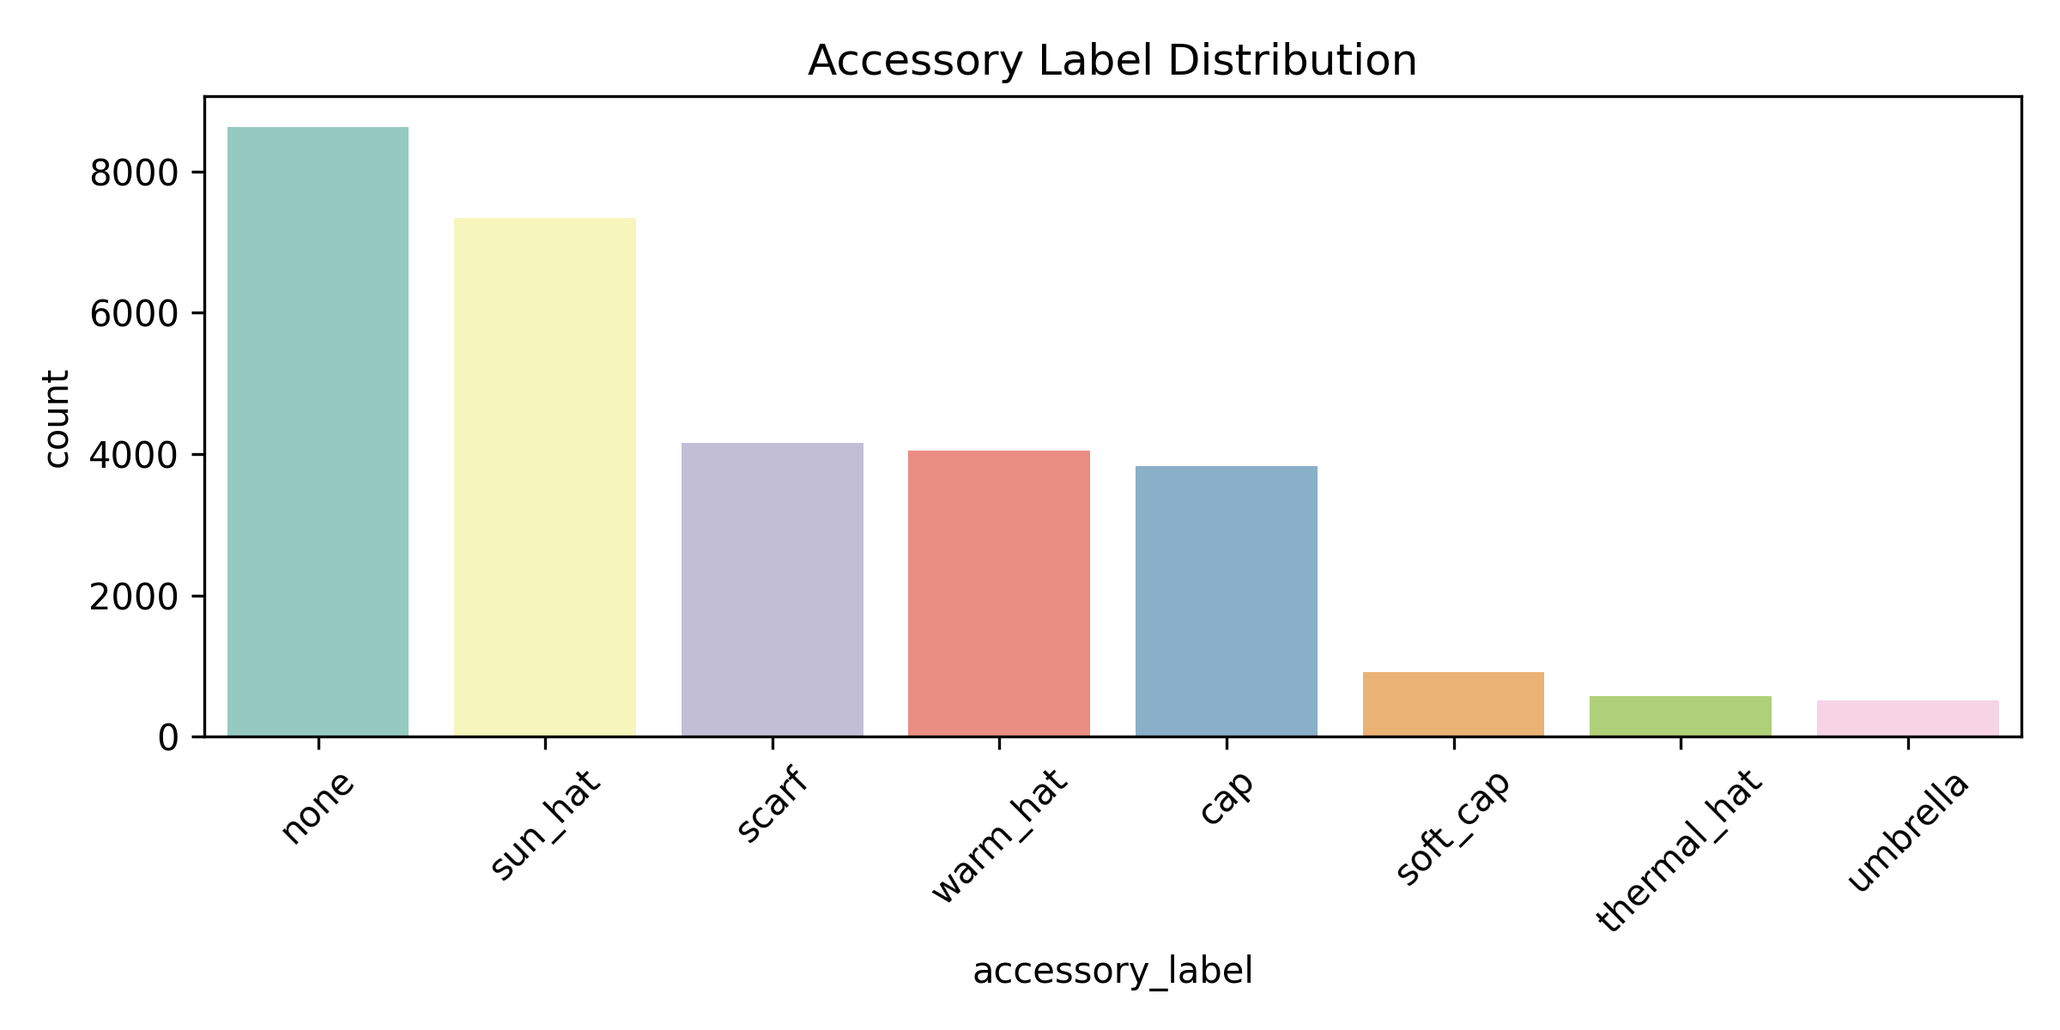
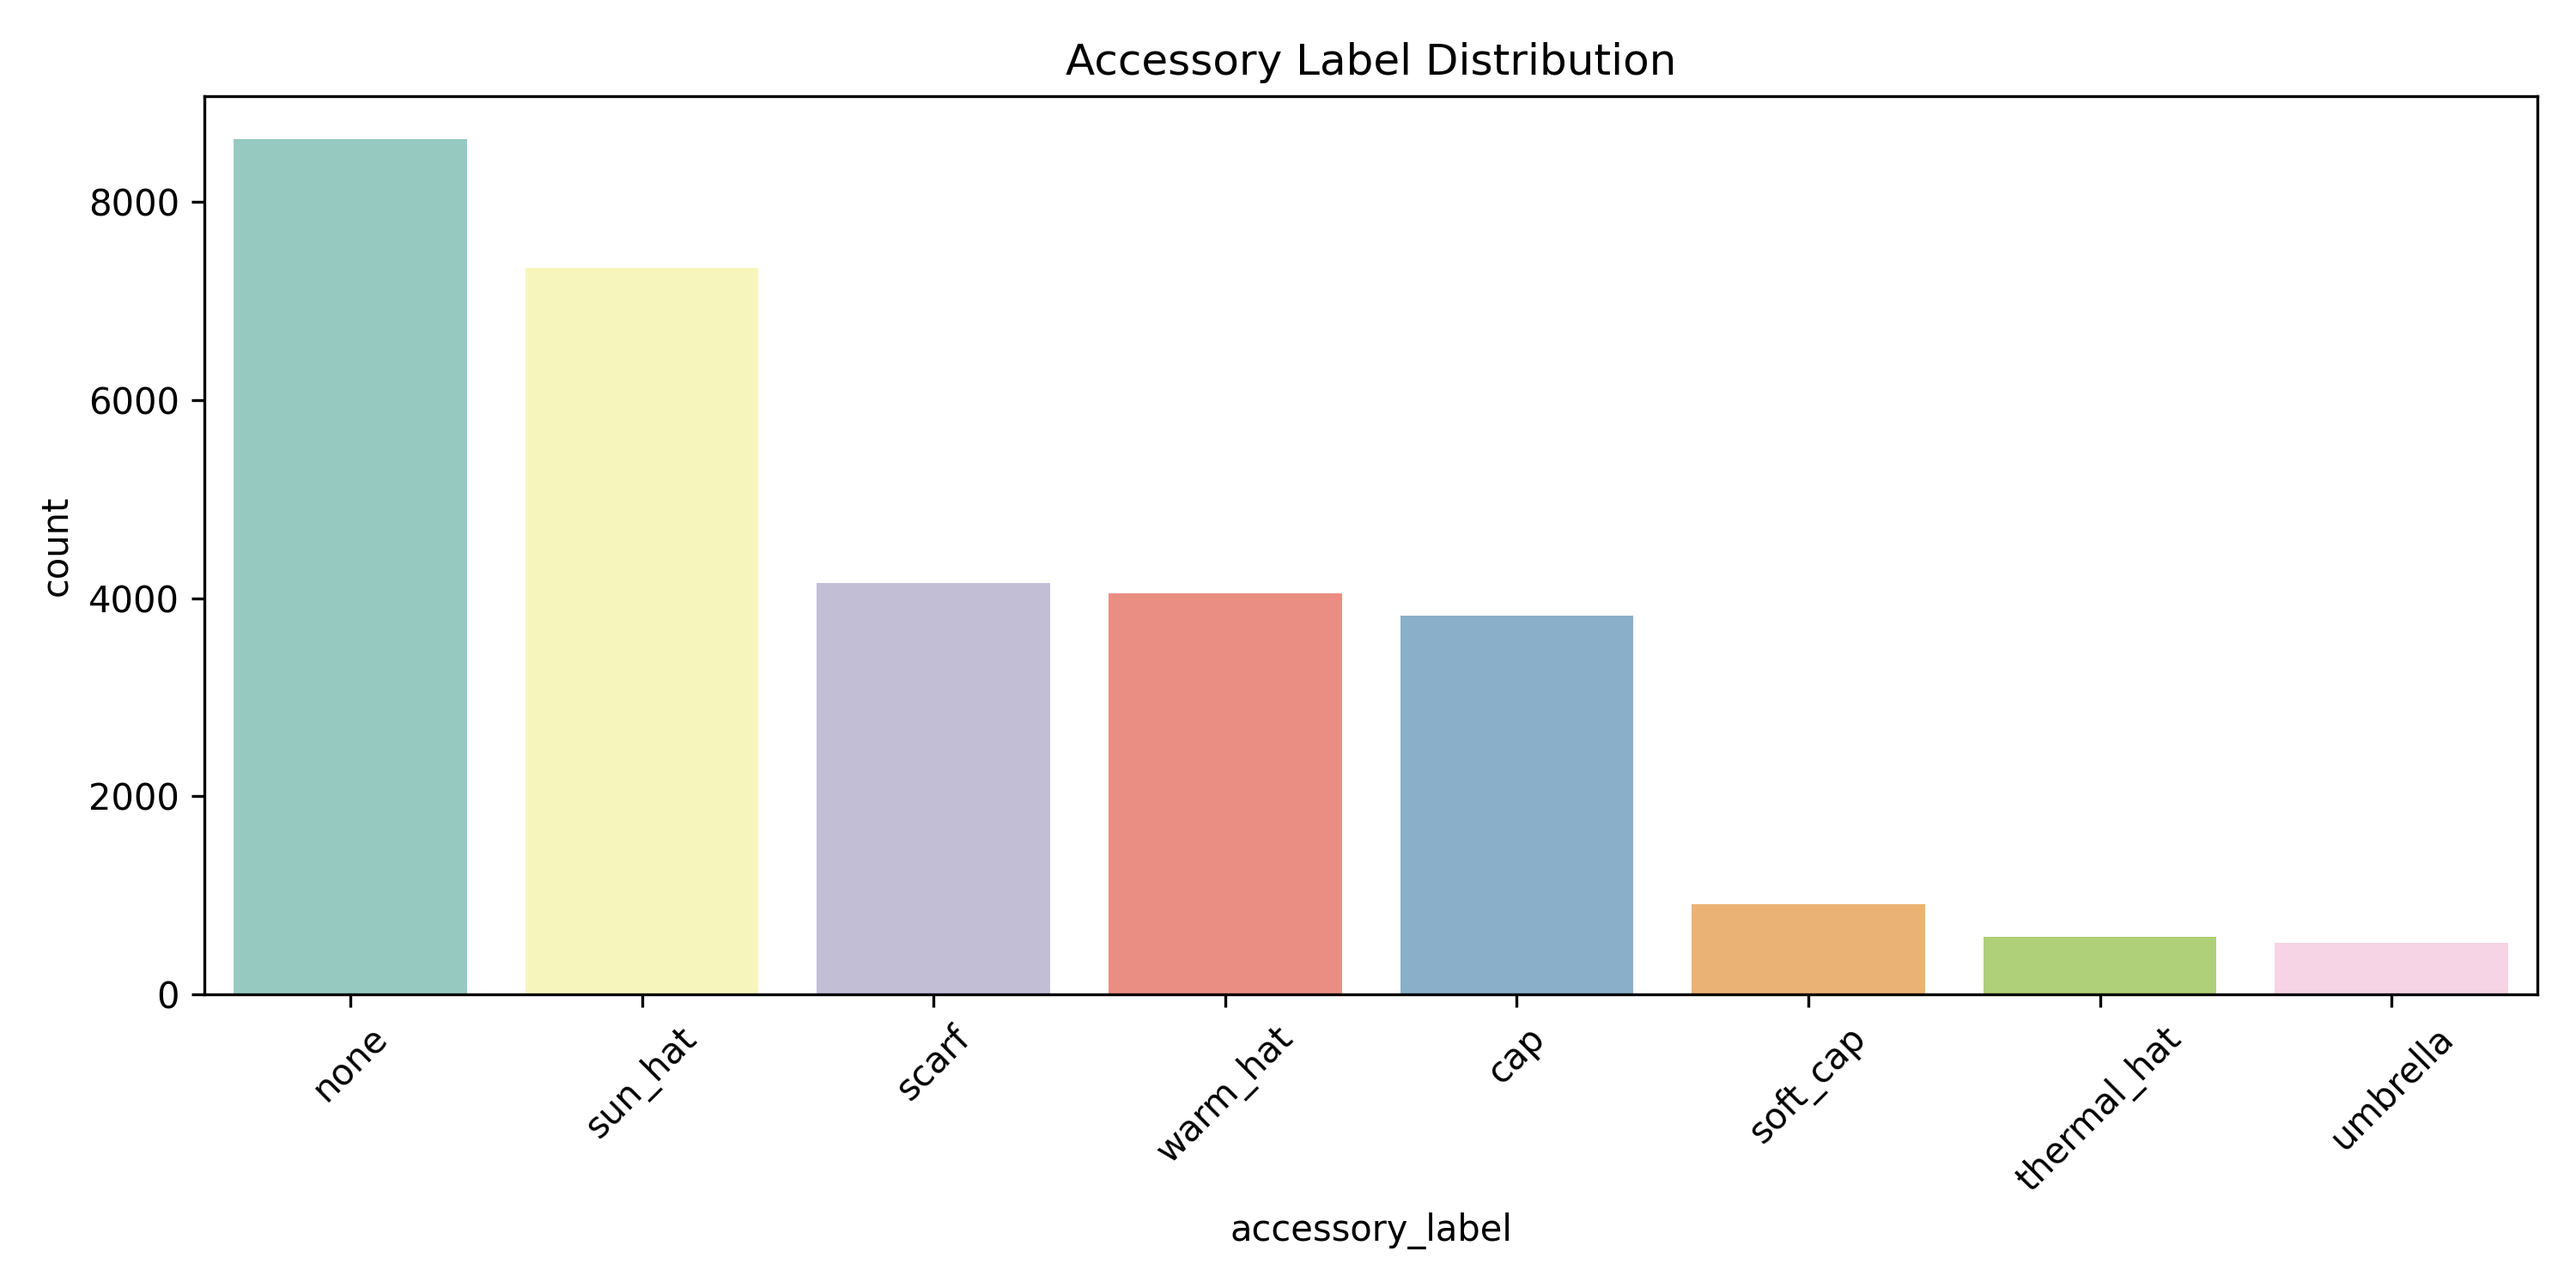
updated images

Changed region(s): [[0.0, 0.0308, 1.0, 0.925], [0.4688, 0.925, 0.625, 0.9867], [0.2188, 0.8325, 0.25, 0.8942]]

diff --git a/backend/generate_figures.py b/backend/generate_figures.py
@@ -1,3 +1,188 @@
+# import os
+# import pandas as pd
+# import numpy as np
+# import joblib
+# import matplotlib.pyplot as plt
+# import seaborn as sns
+# from sklearn.metrics import accuracy_score, classification_report, confusion_matrix
+# import requests
+# import time
+
+# # ---------------- CONFIG ----------------
+# CSV_PATH = "data/synthetic_30k.csv"
+# MODEL_DIR = "models"
+# OUTPUT_DIR = "figures"
+# FEAT_COLS = [
+#     "temperature",
+#     "humidity",
+#     "wind_speed",
+#     "rain",
+#     "gender",
+#     "hour",
+#     "day_of_week",
+#     "season",
+#     "weather_condition",
+# ]
+# TARGETS = ["top", "bottom", "footwear", "accessory"]
+# API_TEST_URL = "http://localhost:8000/outfit/London?gender=male&unit=C"
+
+# os.makedirs(OUTPUT_DIR, exist_ok=True)
+
+# # ---------------- LOAD DATA ----------------
+# df = pd.read_csv(CSV_PATH)
+
+# # Load global encoders and preprocessor (preprocessor included in pipeline, optional)
+# label_encoders = joblib.load(os.path.join(MODEL_DIR, "global_label_encoders.pkl"))
+
+# # Load individual models (pipelines include preprocessor)
+# models = {
+#     t: joblib.load(os.path.join(MODEL_DIR, f"{t}_label_model.pkl")) for t in TARGETS
+# }
+
+# # ---------------- 1. Accuracy Table ----------------
+# acc_list = []
+# for tgt in TARGETS:
+#     le = label_encoders[f"{tgt}_label"]
+#     model = models[tgt]
+#     X = df[FEAT_COLS]  # raw features only
+#     y_true = le.transform(df[f"{tgt}_label"])
+#     y_pred = model.predict(X)  # pipeline applies preprocessing internally
+#     acc_list.append(
+#         {"Garment": tgt.title(), "Accuracy": round(accuracy_score(y_true, y_pred), 3)}
+#     )
+
+# acc_df = pd.DataFrame(acc_list)
+# acc_df.to_csv(os.path.join(OUTPUT_DIR, "accuracy_table.csv"), index=False)
+# print("✔ Accuracy table saved")
+
+# # ---------------- 2. Confusion Matrices ----------------
+# for tgt in TARGETS:
+#     le = label_encoders[f"{tgt}_label"]
+#     model = models[tgt]
+#     X = df[FEAT_COLS]
+#     y_true = le.transform(df[f"{tgt}_label"])
+#     y_pred = model.predict(X)
+#     cm = confusion_matrix(y_true, y_pred)
+
+#     plt.figure(figsize=(7, 6))
+#     sns.heatmap(
+#         cm,
+#         annot=True,
+#         fmt="d",
+#         cmap="Blues",
+#         xticklabels=le.classes_,
+#         yticklabels=le.classes_,
+#     )
+#     plt.title(f"{tgt.title()} Confusion Matrix")
+#     plt.xlabel("Predicted")
+#     plt.ylabel("Actual")
+#     plt.tight_layout()
+#     plt.savefig(os.path.join(OUTPUT_DIR, f"cm_{tgt}.png"), dpi=300)
+#     plt.close()
+# print("✔ Confusion matrices saved")
+
+# # ---------------- 3. Precision / Recall / F1 Bar Chart ----------------
+# metrics_list = []
+# for tgt in TARGETS:
+#     le = label_encoders[f"{tgt}_label"]
+#     model = models[tgt]
+#     X = df[FEAT_COLS]
+#     y_true = le.transform(df[f"{tgt}_label"])
+#     y_pred = model.predict(X)
+#     report = classification_report(y_true, y_pred, output_dict=True)
+#     metrics_list.append(pd.DataFrame(report).transpose().assign(Garment=tgt.title()))
+
+# metrics_df = pd.concat(metrics_list)
+# pivot = metrics_df.groupby("Garment")[["precision", "recall", "f1-score"]].mean()
+# pivot.plot(kind="bar", figsize=(10, 5))
+# plt.title("Average Precision / Recall / F1 per Garment Type")
+# plt.ylabel("Score")
+# plt.ylim(0, 1)
+# plt.tight_layout()
+# plt.savefig(os.path.join(OUTPUT_DIR, "prf1_bar.png"), dpi=300)
+# plt.close()
+# print("✔ PRF1 bar chart saved")
+
+# # ---------------- 4. Dataset Feature Distribution ----------------
+# # Weather condition distribution
+# plt.figure(figsize=(6, 4))
+# sns.countplot(x="weather_condition", data=df, palette="pastel", dodge=False)
+# plt.title("Weather Condition Distribution")
+# plt.tight_layout()
+# plt.savefig(os.path.join(OUTPUT_DIR, "weather_condition_dist.png"), dpi=300)
+# plt.close()
+
+# # Rain distribution
+# plt.figure(figsize=(6, 4))
+# sns.countplot(x="rain", data=df, palette="cool", dodge=False)
+# plt.title("Rain Occurrence Distribution")
+# plt.tight_layout()
+# plt.savefig(os.path.join(OUTPUT_DIR, "rain_dist.png"), dpi=300)
+# plt.close()
+
+# # Gender distribution
+# plt.figure(figsize=(6, 4))
+# sns.countplot(x="gender", data=df, palette="Set2", dodge=False)
+# plt.title("Gender Distribution")
+# plt.tight_layout()
+# plt.savefig(os.path.join(OUTPUT_DIR, "gender_dist.png"), dpi=300)
+# plt.close()
+
+# # Day of week distribution
+# plt.figure(figsize=(7, 4))
+# sns.countplot(
+#     x="day_of_week",
+#     data=df,
+#     palette="muted",
+#     order=["Mon", "Tue", "Wed", "Thu", "Fri", "Sat", "Sun"],
+#     dodge=False,
+# )
+# plt.title("Day of Week Distribution")
+# plt.tight_layout()
+# plt.savefig(os.path.join(OUTPUT_DIR, "day_of_week_dist.png"), dpi=300)
+# plt.close()
+
+# # Garment label distributions
+# for tgt in TARGETS:
+#     plt.figure(figsize=(8, 4))
+#     sns.countplot(
+#         x=f"{tgt}_label",
+#         data=df,
+#         order=df[f"{tgt}_label"].value_counts().index,
+#         palette="Set3",
+#         dodge=False,
+#     )
+#     plt.title(f"{tgt.title()} Label Distribution")
+#     plt.xticks(rotation=45)
+#     plt.tight_layout()
+#     plt.savefig(os.path.join(OUTPUT_DIR, f"{tgt}_label_dist.png"), dpi=300)
+#     plt.close()
+# print("✔ Dataset distribution plots saved")
+
+# # ---------------- 5. API Latency Histogram ----------------
+# latencies = []
+# for _ in range(50):
+#     start = time.perf_counter()
+#     try:
+#         requests.get(API_TEST_URL)
+#     except Exception as e:
+#         print("⚠ API call failed:", e)
+#     end = time.perf_counter()
+#     latencies.append(end - start)
+
+# lat_series = pd.Series(latencies, name="Seconds")
+# lat_series.plot(kind="hist", bins=12, color="skyblue", edgecolor="black")
+# plt.title("API Response Time (50 calls)")
+# plt.xlabel("Seconds")
+# plt.ylabel("Frequency")
+# plt.tight_layout()
+# plt.savefig(os.path.join(OUTPUT_DIR, "latency_hist.png"), dpi=300)
+# plt.close()
+# print("✔ API latency histogram saved")
+
+# print(f"All figures saved in {OUTPUT_DIR}")
+
+# generate_figures.py
 import os
 import pandas as pd
 import numpy as np
@@ -12,57 +197,59 @@ import time
 CSV_PATH = "data/synthetic_30k.csv"
 MODEL_DIR = "models"
 OUTPUT_DIR = "figures"
-FEAT_COLS = [
-    "temperature",
-    "humidity",
-    "wind_speed",
-    "rain",
-    "gender",
-    "hour",
-    "day_of_week",
-    "season",
-    "weather_condition",
-]
-TARGETS = ["top", "bottom", "footwear", "accessory"]
 API_TEST_URL = "http://localhost:8000/outfit/London?gender=male&unit=C"
 
+TARGETS = ["top", "bottom", "footwear", "accessory"]
 os.makedirs(OUTPUT_DIR, exist_ok=True)
 
-# ---------------- LOAD DATA ----------------
+# ---------------- LOAD DATA & MODELS ----------------
 df = pd.read_csv(CSV_PATH)
 
-# Load global encoders and preprocessor (preprocessor included in pipeline, optional)
+# Load label encoders and individual models
 label_encoders = joblib.load(os.path.join(MODEL_DIR, "global_label_encoders.pkl"))
-
-# Load individual models (pipelines include preprocessor)
 models = {
     t: joblib.load(os.path.join(MODEL_DIR, f"{t}_label_model.pkl")) for t in TARGETS
 }
 
-# ---------------- 1. Accuracy Table ----------------
+# Get raw feature columns used in preprocessor
+preprocessor = joblib.load(os.path.join(MODEL_DIR, "preprocessor.pkl"))
+FEATURE_COLS = preprocessor.feature_names_in_
+
+# ---------------- 1. ACCURACY TABLE & BAR CHART ----------------
 acc_list = []
 for tgt in TARGETS:
-    le = label_encoders[f"{tgt}_label"]
+    le = label_encoders[tgt + "_label"]
     model = models[tgt]
-    X = df[FEAT_COLS]  # raw features only
-    y_true = le.transform(df[f"{tgt}_label"])
-    y_pred = model.predict(X)  # pipeline applies preprocessing internally
-    acc_list.append(
-        {"Garment": tgt.title(), "Accuracy": round(accuracy_score(y_true, y_pred), 3)}
-    )
+    X = df[FEATURE_COLS]  # raw features
+    y_true = df[tgt + "_label"]
+    y_true_encoded = le.transform(y_true)
+    y_pred_encoded = model.predict(X)
+    acc = accuracy_score(y_true_encoded, y_pred_encoded)
+    acc_list.append({"Garment": tgt.title(), "Accuracy": acc})
 
 acc_df = pd.DataFrame(acc_list)
 acc_df.to_csv(os.path.join(OUTPUT_DIR, "accuracy_table.csv"), index=False)
 print("✔ Accuracy table saved")
 
-# ---------------- 2. Confusion Matrices ----------------
+# Plot accuracy bar chart
+plt.figure(figsize=(8, 5))
+sns.barplot(x="Garment", y="Accuracy", data=acc_df, palette="pastel")
+plt.ylim(0, 1)
+plt.title("Model Accuracy per Garment")
+plt.ylabel("Accuracy")
+plt.tight_layout()
+plt.savefig(os.path.join(OUTPUT_DIR, "accuracy_bar.png"), dpi=300)
+plt.close()
+print("✔ Accuracy bar chart saved")
+
+# ---------------- 2. CONFUSION MATRICES ----------------
 for tgt in TARGETS:
-    le = label_encoders[f"{tgt}_label"]
+    le = label_encoders[tgt + "_label"]
     model = models[tgt]
-    X = df[FEAT_COLS]
-    y_true = le.transform(df[f"{tgt}_label"])
-    y_pred = model.predict(X)
-    cm = confusion_matrix(y_true, y_pred)
+    X = df[FEATURE_COLS]
+    y_true_encoded = le.transform(df[tgt + "_label"])
+    y_pred_encoded = model.predict(X)
+    cm = confusion_matrix(y_true_encoded, y_pred_encoded)
 
     plt.figure(figsize=(7, 6))
     sns.heatmap(
@@ -81,15 +268,15 @@ for tgt in TARGETS:
     plt.close()
 print("✔ Confusion matrices saved")
 
-# ---------------- 3. Precision / Recall / F1 Bar Chart ----------------
+# ---------------- 3. PRECISION / RECALL / F1 BAR CHART ----------------
 metrics_list = []
 for tgt in TARGETS:
-    le = label_encoders[f"{tgt}_label"]
+    le = label_encoders[tgt + "_label"]
     model = models[tgt]
-    X = df[FEAT_COLS]
-    y_true = le.transform(df[f"{tgt}_label"])
-    y_pred = model.predict(X)
-    report = classification_report(y_true, y_pred, output_dict=True)
+    X = df[FEATURE_COLS]
+    y_true_encoded = le.transform(df[tgt + "_label"])
+    y_pred_encoded = model.predict(X)
+    report = classification_report(y_true_encoded, y_pred_encoded, output_dict=True)
     metrics_list.append(pd.DataFrame(report).transpose().assign(Garment=tgt.title()))
 
 metrics_df = pd.concat(metrics_list)
@@ -103,63 +290,56 @@ plt.savefig(os.path.join(OUTPUT_DIR, "prf1_bar.png"), dpi=300)
 plt.close()
 print("✔ PRF1 bar chart saved")
 
-# ---------------- 4. Dataset Feature Distribution ----------------
-# Weather condition distribution
-plt.figure(figsize=(6, 4))
-sns.countplot(x="weather_condition", data=df, palette="pastel", dodge=False)
+# ---------------- 4. DISTRIBUTION FIGURES ----------------
+plt.figure(figsize=(7, 5))
+sns.countplot(x="weather_condition", data=df, palette="pastel")
 plt.title("Weather Condition Distribution")
 plt.tight_layout()
 plt.savefig(os.path.join(OUTPUT_DIR, "weather_condition_dist.png"), dpi=300)
 plt.close()
 
-# Rain distribution
-plt.figure(figsize=(6, 4))
-sns.countplot(x="rain", data=df, palette="cool", dodge=False)
-plt.title("Rain Occurrence Distribution")
+plt.figure(figsize=(7, 5))
+sns.countplot(x="rain", data=df, palette="cool")
+plt.title("Rain Distribution")
 plt.tight_layout()
 plt.savefig(os.path.join(OUTPUT_DIR, "rain_dist.png"), dpi=300)
 plt.close()
 
-# Gender distribution
-plt.figure(figsize=(6, 4))
-sns.countplot(x="gender", data=df, palette="Set2", dodge=False)
+plt.figure(figsize=(7, 5))
+sns.countplot(x="gender", data=df, palette="Set2")
 plt.title("Gender Distribution")
 plt.tight_layout()
 plt.savefig(os.path.join(OUTPUT_DIR, "gender_dist.png"), dpi=300)
 plt.close()
 
-# Day of week distribution
-plt.figure(figsize=(7, 4))
+plt.figure(figsize=(10, 5))
 sns.countplot(
     x="day_of_week",
     data=df,
-    palette="muted",
     order=["Mon", "Tue", "Wed", "Thu", "Fri", "Sat", "Sun"],
-    dodge=False,
+    palette="muted",
 )
 plt.title("Day of Week Distribution")
 plt.tight_layout()
 plt.savefig(os.path.join(OUTPUT_DIR, "day_of_week_dist.png"), dpi=300)
 plt.close()
 
-# Garment label distributions
+# ---------------- 5. MODEL LABEL DISTRIBUTION ----------------
 for tgt in TARGETS:
-    plt.figure(figsize=(8, 4))
+    plt.figure(figsize=(10, 5))
     sns.countplot(
         x=f"{tgt}_label",
         data=df,
         order=df[f"{tgt}_label"].value_counts().index,
         palette="Set3",
-        dodge=False,
     )
     plt.title(f"{tgt.title()} Label Distribution")
     plt.xticks(rotation=45)
     plt.tight_layout()
     plt.savefig(os.path.join(OUTPUT_DIR, f"{tgt}_label_dist.png"), dpi=300)
     plt.close()
-print("✔ Dataset distribution plots saved")
 
-# ---------------- 5. API Latency Histogram ----------------
+# ---------------- 6. API LATENCY HISTOGRAM ----------------
 latencies = []
 for _ in range(50):
     start = time.perf_counter()
@@ -180,4 +360,4 @@ plt.savefig(os.path.join(OUTPUT_DIR, "latency_hist.png"), dpi=300)
 plt.close()
 print("✔ API latency histogram saved")
 
-print(f"All figures saved in {OUTPUT_DIR}")
+print(f"\nAll figures generated in: {OUTPUT_DIR}")
